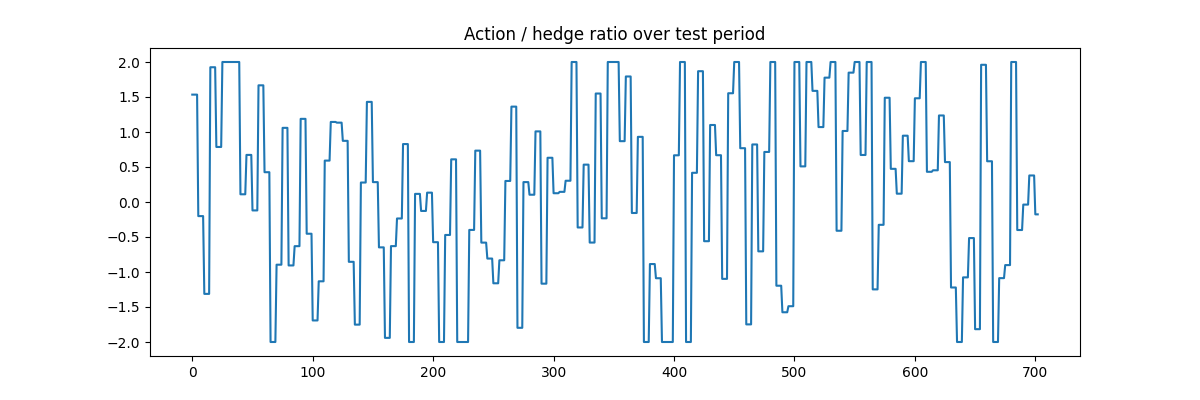
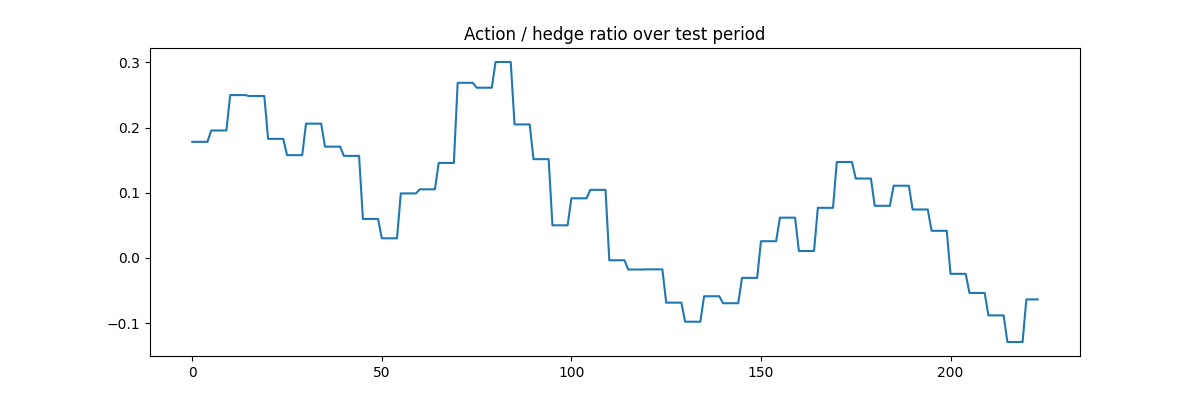
commit

diff --git a/hedge_env_LSTM.py b/hedge_env_LSTM.py
@@ -10,7 +10,7 @@ import matplotlib.pyplot as plt
 window = 20
 n_features = 23
 a_max = 2.0
-rebalance_freq = 25
+rebalance_freq = 5
 class HedgeEnv(gym.Env):
     def __init__(self,window,n_features,features,y,a_max,lam=0,psi=1e-4,phi=0.0002):
         super().__init__()
@@ -26,15 +26,15 @@ class HedgeEnv(gym.Env):
         self.phi = phi
         self.a_max = a_max
         self.action_space = spaces.Box(low=-a_max,high=a_max,shape=(1,),dtype=np.float32)
-        self.observation_space = spaces.Box(low=-np.inf,high=np.inf,shape=(window*n_features+1,),dtype=np.float32)
+        self.observation_space = spaces.Box(low=-np.inf,high=np.inf,shape=(window,n_features+1),dtype=np.float32)
         self.episode_length = 252
         self.episode_end = None
         self.rebalance_freq = rebalance_freq
         self.days_held = 0
     def update_obs(self):
-        self.obs = self.features[self.t-self.window+1:self.t+1].reshape(-1)
-        current_pos = torch.tensor([self.prev_action],dtype=torch.float32)
-        self.obs = torch.concat([self.obs,current_pos])
+        self.obs = self.features[self.t-self.window+1:self.t+1].clone()
+        act = torch.full((self.window,1),self.prev_action,dtype=torch.float32)
+        self.obs = torch.concat([self.obs,act],dim=1)
         return self.obs
 
     def reset(self, seed=None, options=None):
@@ -48,60 +48,66 @@ class HedgeEnv(gym.Env):
         self.obs = self.update_obs()
 
         return self.obs.numpy(), {}
-    def step(self,action):
-        if self.days_held % self.rebalance_freq != 0:
-            action = self.prev_action
-        else:
-            action = np.clip(action.item(), -self.a_max, self.a_max)
+    def step(self, action):
+        action = np.clip(action.item(), -self.a_max, self.a_max)
         trade = action - self.prev_action
-        self.prev_action = action
         ct = self.phi*abs(trade) + 0.5*self.psi*trade**2
-        reward = action*self.y[self.t] - ct - self.lam*trade*action
-        terminated = self.t >= self.episode_end
-        if not terminated:
-            self.days_held += 1
+        lev = 0.001*action**2
+        reward = - ct - self.lam*trade*action-lev
+        for _ in range(self.rebalance_freq):
+            reward += action * self.y[self.t].item()
             self.t += 1
-            self.obs = self.update_obs()
-        return self.obs.numpy(), reward * 1e4,  terminated, False, {}
+            if self.t >= self.episode_end:
+                break
+        self.prev_action = action
+        terminated = self.t >= len(self.y) - 1
+        self.obs = self.update_obs()
+        return self.obs.numpy(), reward * 1e4, terminated, False, {}
 
-env = HedgeEnv(window,n_features,X_train,y_train,a_max)
-policy_kwargs = dict(net_arch = dict(pi=[256,256],vf=[256,256]))
-model = RecurrentPPO("MlpLstmPolicy",env,device="cpu",tensorboard_log="./tensorboard/",policy_kwargs = policy_kwargs,verbose=1,learning_rate=1e-4,n_steps=4096,gae_lambda=0.95,batch_size=64)
-model.learn(total_timesteps=750_000,tb_log_name="hedging")
-model.save("hedging")
-model = RecurrentPPO.load("hedging")
+"""env = HedgeEnv(window,n_features,X_train,y_train,a_max)
+policy_kwargs = dict(lstm_hidden_size=64,n_lstm_layers=1,net_arch=dict(vf=[64],pf=[64]))
+model = RecurrentPPO("MlpLstmPolicy",env,device="cpu",tensorboard_log="./tensorboard/",policy_kwargs = policy_kwargs,verbose=1,learning_rate=1e-4,n_steps=4096,gae_lambda=0.95,batch_size=64,ent_coef=0.01)
+model.learn(total_timesteps=50_000,tb_log_name="lstm_hedging")
+model.save("lstm_hedging")"""
+model = RecurrentPPO.load("lstm_hedging")
 class HedgeEnvEval(HedgeEnv):
     def reset(self, seed=None, options=None):
         super(HedgeEnv, self).reset(seed=seed)
         self.t = self.window - 1
         self.prev_action = 0.0
         self.obs = self.update_obs()
-        return self.obs.numpy(), {}
+        return self.obs, {}
 
     def step(self, action):
-        if self.days_held % self.rebalance_freq != 0:
-            action = self.prev_action
-        else:
-            action = np.clip(action.item(), -self.a_max, self.a_max)
+        action = np.clip(action.item(), -self.a_max, self.a_max)
         trade = action - self.prev_action
-        self.prev_action = action
-        ct = self.phi*abs(trade) + 0.5*self.psi*trade**2
-        reward = action*self.y[self.t] - ct - self.lam*trade*action
-        terminated = self.t >= len(self.y) - 1
-        if not terminated:
-            self.days_held += 1
+        ct = self.phi * abs(trade) + 0.5*self.psi*trade**2 + self.lam * action * trade
+        period_rew = []
+        pen_paid = False
+        for _ in range(self.rebalance_freq):
+            if self.t >= len(self.y) - 1:
+                break
+            day_ct = ct if not pen_paid else 0.0
+            day_lam = (self.lam * trade * action) if not pen_paid else 0.0
+            pen_paid = True
+            day_reward = (action * self.y[self.t].item()) - day_ct - day_lam
+            period_rew.append(day_reward)
             self.t += 1
-            self.obs = self.update_obs()
-        return self.obs.numpy(), reward, terminated, False, {}
-test_env = HedgeEnvEval(window, n_features, X_test, y_test , a_max)
+        self.prev_action = action
+        obs = self.update_obs()
+        terminated = self.t >= len(self.y) - 1
+        return obs, period_rew, terminated, False, {}
+
+test_env = HedgeEnvEval(window, n_features, X_valid, y_valid, a_max)
 obs, _ = test_env.reset()
 done = False
 rewards, actions = [], []
+lstm_states = None
 while not done:
-    action, _ = model.predict(obs, deterministic=True)
+    action, lstm_states = model.predict(obs,state=lstm_states, deterministic=True)
     obs, reward, done, _, _ = test_env.step(action)
-    rewards.append(reward)
-    actions.append(test_env.prev_action)
+    rewards.extend(reward)
+    actions.extend([test_env.prev_action]*len(reward))
 
 r = np.array(rewards)
 sharpe = np.sqrt(252) * r.mean() / (r.std() + 1e-8)
@@ -134,7 +140,7 @@ plt.savefig("equity.png")
 plt.show()
 
 actions = np.array(actions)
-y_test_realized = y_test.numpy()[window - 1: window - 1 + len(actions)] # align lengths
+y_test_realized = y_valid.numpy()[window - 1: window - 1 + len(actions)] # align lengths
 corr = np.corrcoef(actions, y_test_realized)[0,1]
 print("Correlation(action, forward return):", corr)
 